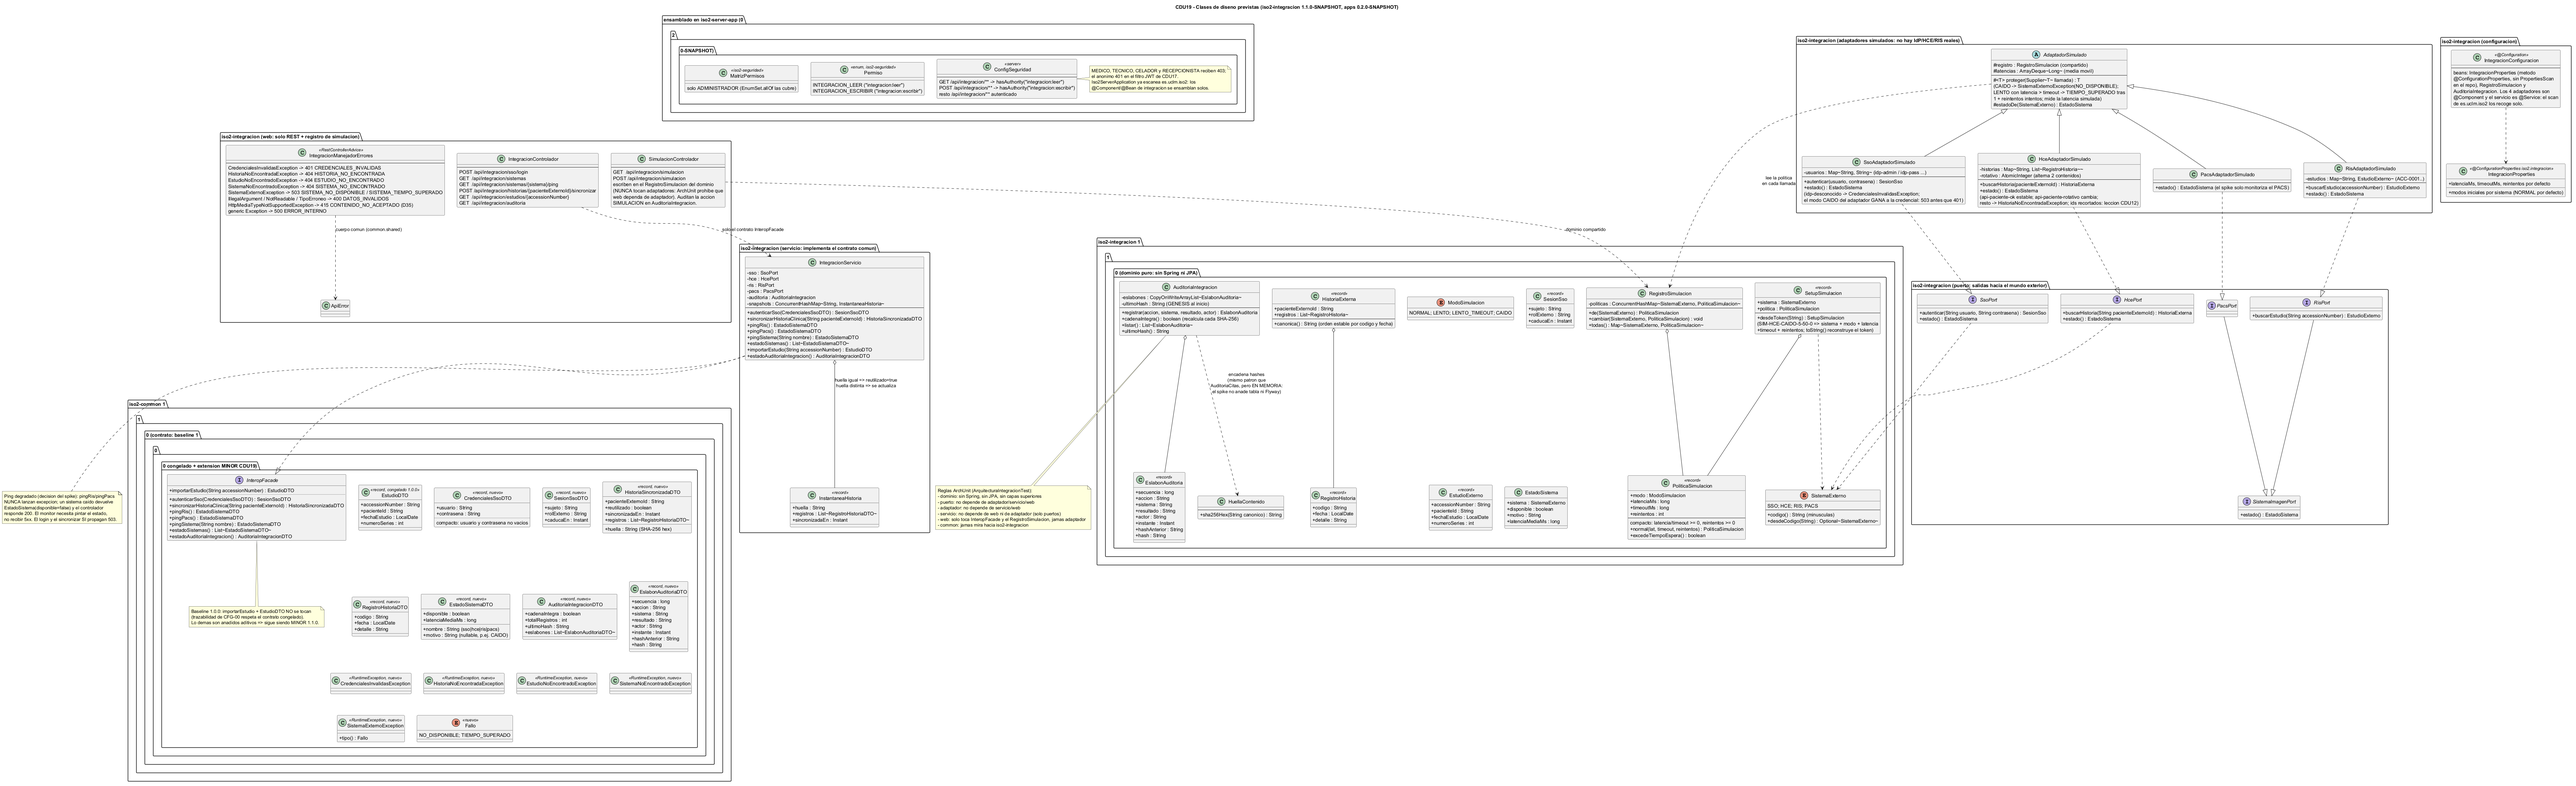
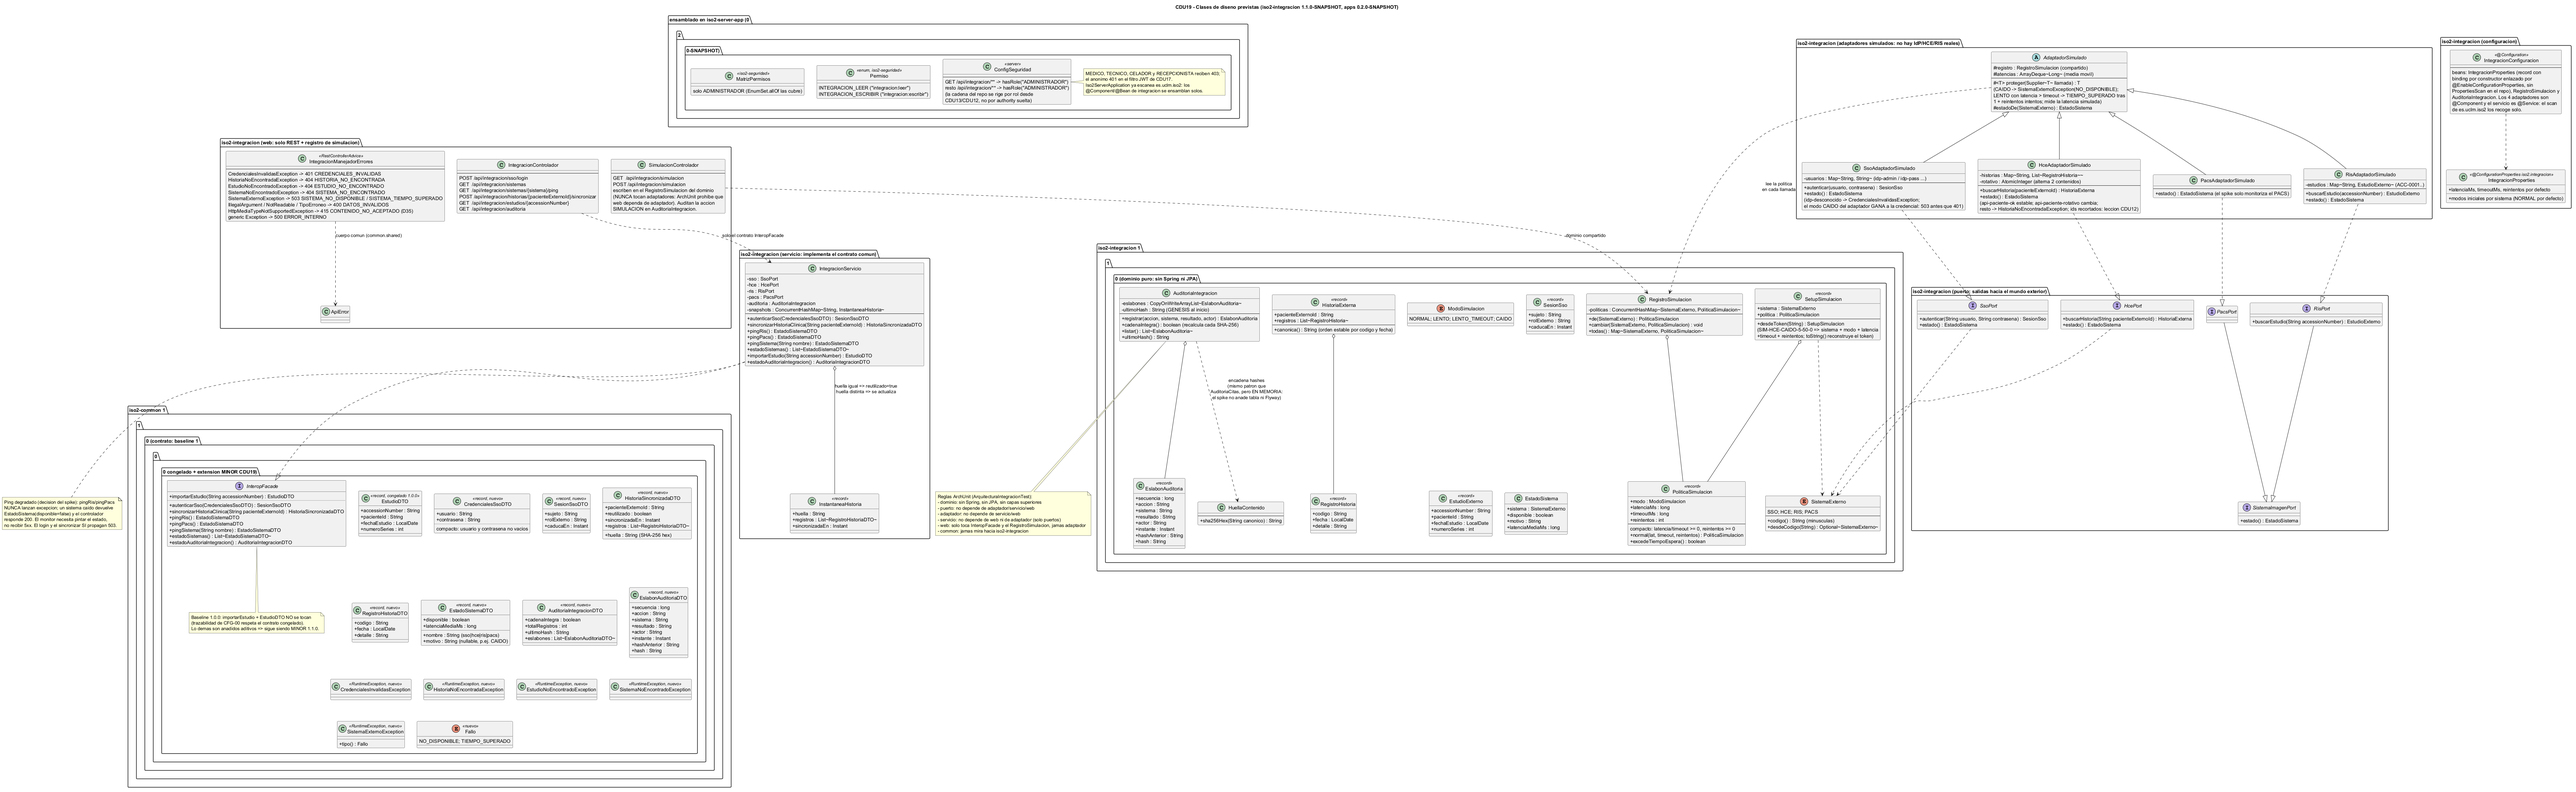
feat(rbac+server - Iter6/CFG-06): permisos integracion y ensamblado del servidor con CDU19
- iso2-seguridad: Permiso anade INTEGRACION_LEER e INTEGRACION_ESCRIBIR; ningun rol
  de trabajo los recibe porque la matriz ya los concede al ADMINISTRADOR con el
  EnumSet.allOf (el spike decide que la API de integracion es solo administrativa)
- ConfigSeguridad: GET y resto de /api/integracion/** a hasRole("ADMINISTRADOR"),
  siguiendo el patron del resto de cadenas (CDU13/CDU12), no por authority suelta;
  el resto de roles recibe 403 y el anonimo 401 en el filtro JWT de CDU17
- iso2-server-app pasa a 0.2.0-SNAPSHOT (release train Iter6/CFG-06, hito
  v0.2.0-alpha del mapa) y fija iso2-integracion a 1.1.0-SNAPSHOT en lugar del
  baseline 1.0.0; el pin test de iso2-client-app sigue el mismo tren
- iso2-client-app sube a 0.2.0-SNAPSHOT para que resuelva el pin del server
- application.yml (principal y test) con el bloque iso2.integracion: modos y
  repas por sistema; en pruebas latencia 5 ms y espera 300 ms para no alargar
  los tests, y el record de propiedades pone NORMAL/20/800/0 si no se pone nada
- el .puml de diseno se alinea antes de commitear con la forma final: binding de
  IntegracionProperties por constructor con @EnableConfigurationProperties y
  reglas de ConfigSeguridad por rol (D31)

Ref: #44

diff --git a/iso2-server-app/src/main/java/es/uclm/iso2/server/ConfigSeguridad.java b/iso2-server-app/src/main/java/es/uclm/iso2/server/ConfigSeguridad.java
@@ -42,6 +42,10 @@ import java.time.Instant;
  *       RECEPCIONISTA); TECNICO y CELADOR quedan fuera por matriz.</li>
  *   <li>Agendar/reprogramar/cancelar citas: solo {@code ADMINISTRADOR} y
  *       {@code RECEPCIONISTA} ({@code cita:escribir}, actor Administrativo del CDU12).</li>
+ *   <li>Integracion (CDU19, spike): solo {@code ADMINISTRADOR}, lectura y escritura
+ *       ({@code integracion:leer}/{@code integracion:escribir}). El spike decide que
+ *       la API de sistemas externos, la simulacion de fallos y la auditoria de
+ *       integracion no se abren al resto de roles: son herramientas de administracion.</li>
  *   <li>{@code /h2-console/**}: solo {@code ADMINISTRADOR}. Como el navegador no puede
  *       enviar la cabecera {@code Authorization} en la navegación HTML, la consola se
  *       usa en desarrollo con herramientas que sí pueden (curl/scripts) adjuntando el
@@ -92,6 +96,12 @@ public class ConfigSeguridad {
                         // RECEPCIONISTA (cita:escribir, actor Administrativo del CDU12).
                         .requestMatchers(HttpMethod.GET, "/api/citas/**").hasAnyRole("ADMINISTRADOR", "MEDICO", "RECEPCIONISTA")
                         .requestMatchers("/api/citas/**").hasAnyRole("ADMINISTRADOR", "RECEPCIONISTA")
+                        // CDU19 (Iter6/CFG-06, spike): la API de integracion es solo de
+                        // ADMINISTRADOR (integracion:leer la GET, integracion:escribir la
+                        // POST). El resto de roles no monitoriza sistemas externos ni cambia
+                        // la simulacion de fallos ni lee la auditoria del subdominio.
+                        .requestMatchers(HttpMethod.GET, "/api/integracion/**").hasRole("ADMINISTRADOR")
+                        .requestMatchers("/api/integracion/**").hasRole("ADMINISTRADOR")
                         // D34 (Iter5): el diagnostico de persistencia revela estructura interna
                         // de la base (tablas y registros), solo para ADMINISTRADOR.
                         .requestMatchers("/api/persistencia/**").hasRole("ADMINISTRADOR")

diff --git a/iso2-seguridad/src/main/java/es/uclm/iso2/seguridad/dominio/MatrizPermisos.java b/iso2-seguridad/src/main/java/es/uclm/iso2/seguridad/dominio/MatrizPermisos.java
@@ -19,7 +19,10 @@ import java.util.Set;
  * Con CDU06 (CFG-04) el Medico prescribe (solicitud:escribir) y el resto de roles
  * sanitarios solo consultan: recepcion lee solicitudes, tecnico y celador no.
  * Con CDU12 (CFG-05) recepcion gestiona citas (cita:escribir, actor Administrativo del
- * CDU12) y medico solo las lee; tecnico y celador quedan fuera de las citas.</p>
+ * CDU12) y medico solo las lee; tecnico y celador quedan fuera de las citas. Con CDU19
+  (CFG-06) llegan los permisos de integracion: el spike fija que la API de integracion
+  es solo de ADMINISTRADOR, y ya los cubre el {@code EnumSet.allOf} del administrador,
+  por eso ningun rol de trabajo los recibe en la matriz.</p>
  *
  * @since 1.1.0 (CFG-02)
  */

diff --git a/iso2-seguridad/src/main/java/es/uclm/iso2/seguridad/dominio/Permiso.java b/iso2-seguridad/src/main/java/es/uclm/iso2/seguridad/dominio/Permiso.java
@@ -42,6 +42,12 @@ public enum Permiso {
     /** Asignar, reprogramar y cancelar citas (actor Administrativo del CDU12). */
     CITA_ESCRIBIR("cita:escribir"),
 
+    /** Consultar el estado de los sistemas externos y la auditoria de integracion (llega con CDU19). */
+    INTEGRACION_LEER("integracion:leer"),
+
+    /** Login SSO de prueba, sincronizar historias y cambiar simulacion (spike CDU19, solo ADMINISTRADOR). */
+    INTEGRACION_ESCRIBIR("integracion:escribir"),
+
     /** Gestionar usuarios y roles (llega completo con CDU18). */
     USUARIO_GESTIONAR("usuario:gestionar");
 
